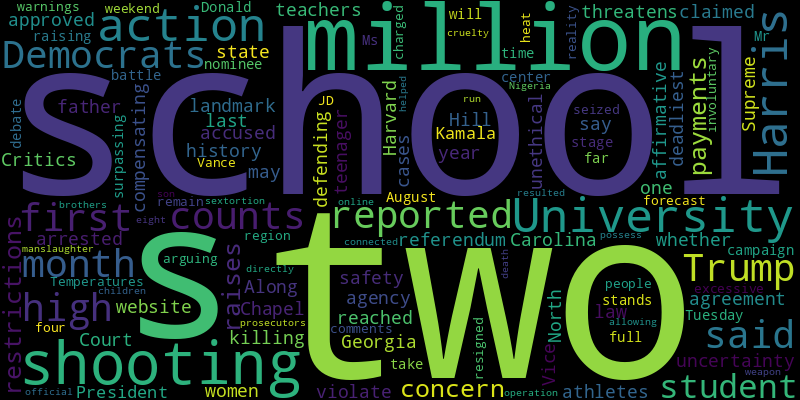
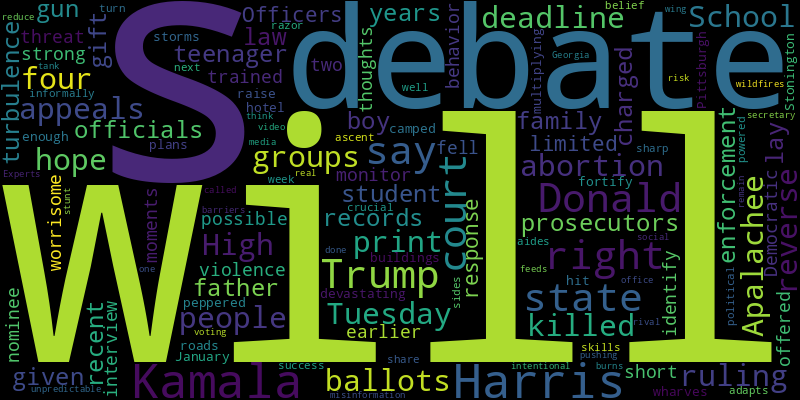
chore(bot): 🙏 auto commit

diff --git a/README.md b/README.md
@@ -2,41 +2,41 @@
 Auto RSS New York Times and Generate Word Cloud
 
 ## New York Times Global News
-* The emirate has used its influence with Hamas to press for a truce with Israel. But “the last word is with those on the battlefield,” one expert said.
-* Residents were taking stock of destruction from the 10-day Israeli raid, one of the deadliest in years in the occupied West Bank.
+* U.S. and European countries had warned of sanctions if Iran provided weapons that could be used against Ukraine. President Biden’s lame-duck status could hamper a response.
+* Israel said it had launched a “precision strike” against Hamas militants operating from a school compound in northern Gaza. Local medics said several people sheltering there were killed.
+* Yagi was one of the strongest storms to hit northern Vietnam, where one person died, thousands were evacuated, and flood and landslide warnings were issued.
+* In an interview, the former British prime minister discussed his new book ‘On Leadership,’ the dysfunction of U.S. politics, and deflected questions about Elon Musk’s influence.
+* Pope Francis is visiting Papua New Guinea, which has been exploited for its natural resources and is imperiled by rising sea levels.
+* Using ruins as his canvas, Gamlet Zinkivskyi has captured life in wartime Ukraine in dozens of grim, gripping and harshly beautiful paintings. “Broken, but invincible,” read one captioned work.
+* A seminary on Flores, a Catholic-majority island in Indonesia, ordains so many priests that a lot of them go abroad to serve the faithful.
+* In court, the woman said she was traumatized not only by what prosecutors said happened to her mother but also by fear that she herself might have been abused.
 * The Ukrainian offensive over the border caught Moscow’s intelligence agencies by surprise, experts say. It wasn’t the first time that has happened during the war.
-* Beijing said the move was in line with international trends, as more countries have limited such adoptions. Many would-be adoptive families were left in limbo.
-* Over a decades-long period, more than 30 Catholic priests and missionaries moved to remote island nations after they had allegedly abused children in the West, or had been found to do so.
-* President William Ruto called the news “devastating.” The blaze has brought renewed attention to concerns about the safety of Kenyan schools.
-* As hospitals struggle from a monthslong walkout, nurses have picked up some of the slack. A new law gives them more responsibilities and, they say, greater recognition.
-* Gisèle Pelicot spoke of the horror of being told by the police that they had evidence her husband had drugged her for years and brought men into their home to join him in raping her.
-* Boko Haram killed at least 170 villagers in northeastern Nigeria, community leaders say, in what is likely one of the deadliest attacks in recent years.
-* The shootout with an 18-year-old Austrian came on the anniversary of the attack on the Munich Olympics that left 11 Israelis dead, and was being investigated as a possible terrorist attack.
+* Her trip to the West Bank, where she was shot on Friday, was Ms. Eygi’s latest effort in years of activism that began nearly a decade ago when was still a teenager.
 
 ![Global](./global.png)
 ## New York Times United States News
-* The concern over restrictions on some payments raises uncertainty on whether a landmark agreement on compensating athletes can be reached and approved.
-* A teenager is accused of killing two students and two teachers in the deadliest school shooting in Georgia’s history. His father was arrested, too.
-* A state agency claimed that the referendum “threatens women’s safety.” Critics say the website is unethical and may violate the law.
-* Along with Harvard University, the University of North Carolina at Chapel Hill was one of two schools defending affirmative action in Supreme Court cases last year.
-* Vice President Kamala Harris’s campaign reported raising $361 million in August, her first full month as the Democrats’ nominee, far surpassing the $130 million reported by Mr. Trump in the same month.
-* The battle over who Ms. Harris is — and what she stands for — will take center stage on Tuesday when she and Donald Trump debate for the first time.
-* Temperatures in the region were forecast to remain high into the weekend, with more than 31 million people under excessive heat warnings.
-* Democrats seized on his comments, arguing that JD Vance was resigned to the reality of school shootings.
-* He was also charged with four counts of involuntary manslaughter and eight counts of cruelty to children, all “directly connected with the actions of his son and allowing him to possess a weapon,” an official said.
-* Two brothers from Nigeria helped run an online sextortion operation that prosecutors said resulted in the death of a high school student.
+* But abortion rights groups hope an appeals court will reverse the ruling before the Tuesday deadline to print the state ballots.
+* After four people were killed at Apalachee High School, prosecutors charged a student and his father, who officials say had given the boy the gun as a gift.
+* Court and law enforcement records lay out the turbulence in the teenager’s family in recent years.
+* Officers are limited in their response to a possible threat of violence, but they are being trained to identify and monitor worrisome behavior earlier.
+* The 2016 Democratic nominee fell short to Donald Trump, but she had strong debate moments against him. In an interview, she offered some thoughts for Kamala Harris.
+* After two devastating storms hit Stonington in January, plans are multiplying to raise and fortify wharves, roads and buildings. But will that be enough?
+* Kamala Harris is camped out at a Pittsburgh hotel. Donald Trump is being peppered informally by aides. Both sides share the same belief about why the debate is so crucial.
+* Kamala Harris’s razor-sharp debate skills have powered her political ascent. Her success next week will turn on how well she adapts to an unpredictable rival.
+* The right-wing think tank has been pushing misinformation about voting into social media feeds. The Georgia secretary of state’s office called one video “a stunt.”
+* Experts say these intentional burns reduce the risk of wildfires and more should be done. But real barriers remain.
 
 ![US](./usnews.png)
 ## New York Times Asia News
+* As the acclaimed “Counting and Cracking” makes its North American debut, the playwright describes the work as “my soul on a plate.”
+* BepiColombo, a joint European-Japanese mission, completed its latest flyby of Mercury, sending back a sneak peek of the cratered planet it will begin to orbit in 2026.
+* Pope Francis is visiting Papua New Guinea, which has been exploited for its natural resources and is imperiled by rising sea levels.
+* Yagi was one of the strongest storms to hit northern Vietnam, where one person died, thousands were evacuated, and flood and landslide warnings were issued.
+* A seminary on Flores, a Catholic-majority island in Indonesia, ordains so many priests that a lot of them go abroad to serve the faithful.
 * A looming decision in Washington to block Nippon Steel’s merger with U.S. Steel on national security grounds is raising sharp questions in Tokyo.
-* Yagi, one of 2024’s strongest storms, hit the southern Chinese island of Hainan. It is forecast to make landfall again in Vietnam on Saturday.
+* Yagi, one of 2024’s strongest storms, hit the southern Chinese island of Hainan on Friday. It is forecast to make landfall in Vietnam on Saturday.
 * Beijing said the move was in line with international trends, as more countries have limited such adoptions. Many would-be adoptive families were left in limbo.
 * As hospitals struggle from a monthslong walkout, nurses have picked up some of the slack. A new law gives them more responsibilities and, they say, greater recognition.
 * Over a decades-long period, more than 30 Catholic priests and missionaries moved to remote island nations after they had allegedly abused children in the West, or had been found to do so.
-* Japanese chip companies are tapping billions of dollars and collaborating with foreign firms as part of new government policies that look outward.
-* Japan’s Seven & i Holdings, the operator of 7-Eleven, has rebuffed a buyout offer that would have been the largest foreign-led acquisition of a Japanese company.
-* Plus, the clothes that changed men’s fashion.
-* As the Biden administration nears a decision to block the proposed acquisition of U.S. Steel, the debate over national and economic security is being dwarfed by presidential politics.
-* Officials have accused Alice Guo of helping criminal syndicates involved in online scams and human trafficking, and have questioned her about whether she was born in China.
 
 ![Asian](./asian.png)
